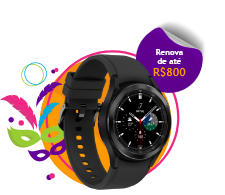
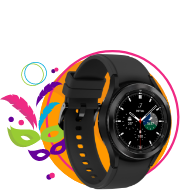
update 11308

diff --git a/2022/Vivo/114_247_11308/11308_slc_smart_ofertas_fevereiro_ciclo_4_22_02_a_03_03_email_3_hospedadas.html b/2022/Vivo/114_247_11308/11308_slc_smart_ofertas_fevereiro_ciclo_4_22_02_a_03_03_email_3_hospedadas.html
@@ -190,37 +190,6 @@
                             </tr>
                           </table>
                         </td>
-                        <td width="35">
-                          <!--  -->
-                        </td>
-                        <td valign="middle">
-                          <table border="0" cellpadding="0" cellspacing="0" width="100%">
-                            <tr>
-                              <td bgcolor="#660099" style="border-radius: 15px 15px 15px 15px;">
-                                <table border="0" cellpadding="0" cellspacing="0" width="100%">
-                                  <tr>
-                                    <td align="center">
-                                      <table border="0" cellpadding="0" cellspacing="0" width="70%">
-                                        <tr>
-                                          <td align="center" style="padding: 20px 0 10px 0;">
-                                            <img border="0" width="84" style="display: block;" src="https://www.vivo.com.br/content/dam/crm/fevereiro22/smart_ofertas_ciclo4/renova.png" alt="Renova"/> 
-                                          </td>
-                                        </tr>
-                                        <tr>
-                                          <td align="center" style="padding: 0 0 20px 0;">
-                                            <font face="Trebuchet MS, Arial, sans-serif" style="font-size: 14px; line-height: 1.2; color: #ffffff; display: block;" class="font13">
-                                              Seu aparelho antigo vale <b>R$800 de desconto</b> na troca!
-                                            </font>
-                                          </td>
-                                        </tr>
-                                      </table>
-                                    </td>
-                                  </tr>
-                                </table>
-                              </td>
-                            </tr>
-                          </table>
-                        </td>
                       </tr>
                     </table>
                   </td>

diff --git a/2022/Vivo/114_247_11308/11308_slc_smart_ofertas_fevereiro_ciclo_4_22_02_a_03_03_email_3.html b/2022/Vivo/114_247_11308/11308_slc_smart_ofertas_fevereiro_ciclo_4_22_02_a_03_03_email_3.html
@@ -190,37 +190,6 @@
                             </tr>
                           </table>
                         </td>
-                        <td width="35">
-                          <!--  -->
-                        </td>
-                        <td valign="middle">
-                          <table border="0" cellpadding="0" cellspacing="0" width="100%">
-                            <tr>
-                              <td bgcolor="#660099" style="border-radius: 15px 15px 15px 15px;">
-                                <table border="0" cellpadding="0" cellspacing="0" width="100%">
-                                  <tr>
-                                    <td align="center">
-                                      <table border="0" cellpadding="0" cellspacing="0" width="70%">
-                                        <tr>
-                                          <td align="center" style="padding: 20px 0 10px 0;">
-                                            <img border="0" width="84" style="display: block;" src="./imagens/renova.png" alt="Renova"/> 
-                                          </td>
-                                        </tr>
-                                        <tr>
-                                          <td align="center" style="padding: 0 0 20px 0;">
-                                            <font face="Trebuchet MS, Arial, sans-serif" style="font-size: 14px; line-height: 1.2; color: #ffffff; display: block;" class="font13">
-                                              Seu aparelho antigo vale <b>R$800 de desconto</b> na troca!
-                                            </font>
-                                          </td>
-                                        </tr>
-                                      </table>
-                                    </td>
-                                  </tr>
-                                </table>
-                              </td>
-                            </tr>
-                          </table>
-                        </td>
                       </tr>
                     </table>
                   </td>

diff --git a/2022/Vivo/114_247_11308/11308_slc_smart_ofertas_fevereiro_ciclo_4_22_02_a_03_03_email_2.html b/2022/Vivo/114_247_11308/11308_slc_smart_ofertas_fevereiro_ciclo_4_22_02_a_03_03_email_2.html
@@ -802,7 +802,7 @@
                                   <table border="0" cellpadding="0" cellspacing="0">
                                     <tr>
                                       <td style="padding: 20px 0 0 0;" align="center">
-                                        <img border="0" width="225" style="display: block;" src="./imagens/relogio_v2.png" alt=""/>
+                                        <img border="0" width="180" style="display: block;" src="./imagens/relogio_v2.png" alt=""/>
                                       </td>
                                     </tr>
                                   </table>
